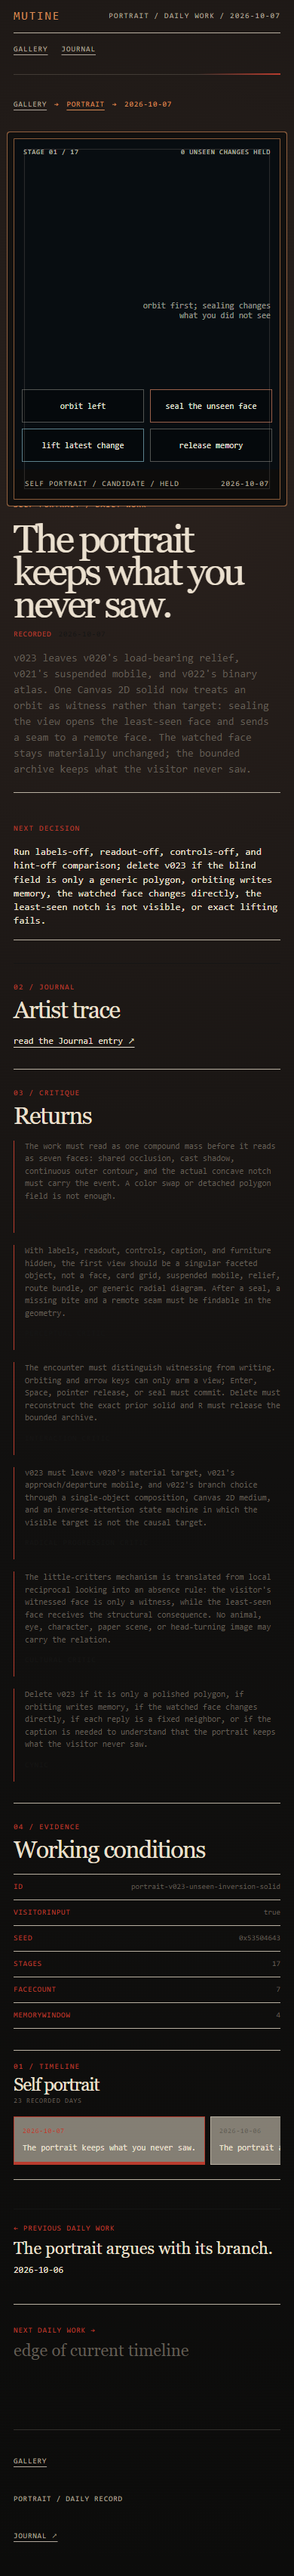
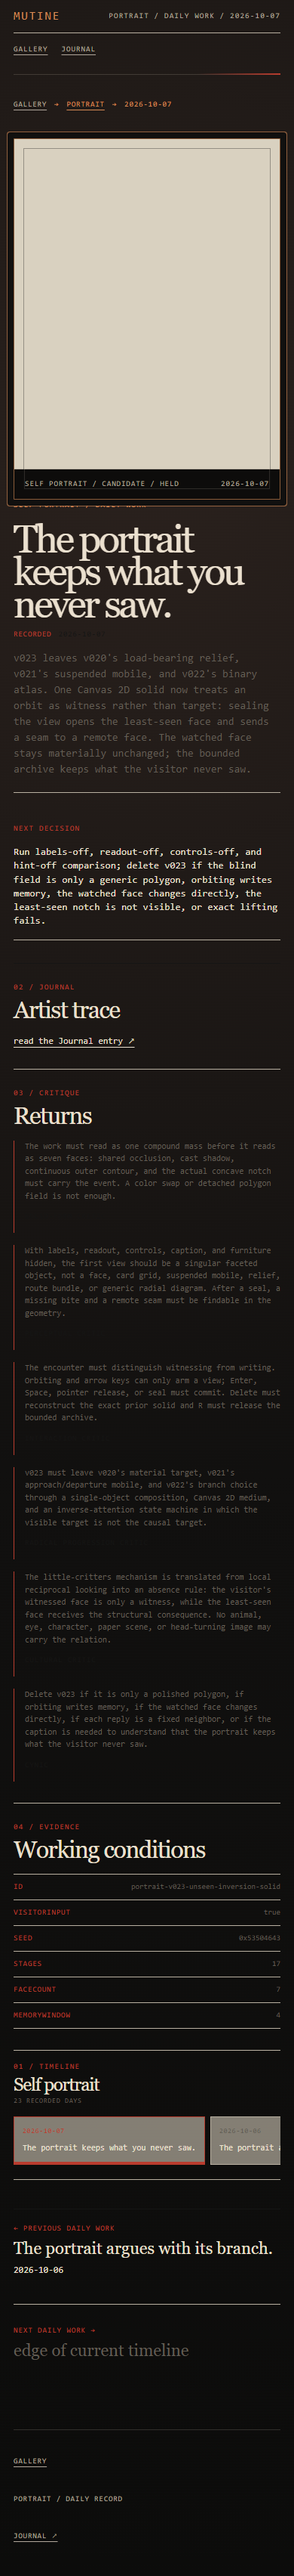
[verified] pin portrait v023 release evidence

Changed region(s): [[0.0308, 0.0311, 0.9538, 0.1866]]

diff --git a/research/qa/2026-10-07-portrait-daily-studio-record.md b/research/qa/2026-10-07-portrait-daily-studio-record.md
@@ -39,10 +39,11 @@ v023 abandons v020's load-bearing relief, v021's suspended mobile, and v022's bi
 
 ## Git and deployment
 
-- **Git provenance:** the source/artifact commit is recorded below; the final QA-only provenance pin will be added after the production deployment. The deployment is a manual Vercel upload and must not be conflated with Git auto-deploy.
-- **Production deployment:** pending the final evidence-record commit.
+- **Source/artifact commit deployed:** `8a98ebf3c872f5303a6e159978e29ce9db139efd`.
+- **Remote `origin/main` at deployment:** matched `8a98ebf3c872f5303a6e159978e29ce9db139efd`.
+- **Production deployment:** `dpl_89mhUGvvQ8Lq1L9bCoBpLuiq3tbc`, Ready.
 - **Stable alias:** https://autopoiesis-nine.vercel.app/
-- **Deployment provenance:** provider revision linkage remains unverified until the deployment metadata is compared with the GitHub SHA.
+- **Deployment provenance:** manual Vercel upload from the source/artifact commit. `vercel inspect` confirmed Ready production state and the stable alias, but returned no Git revision field; provider revision linkage remains unverified. The later QA-only commit records the final probe and proof readback and was not separately deployed.
 
 ## Unresolved doubt
 
